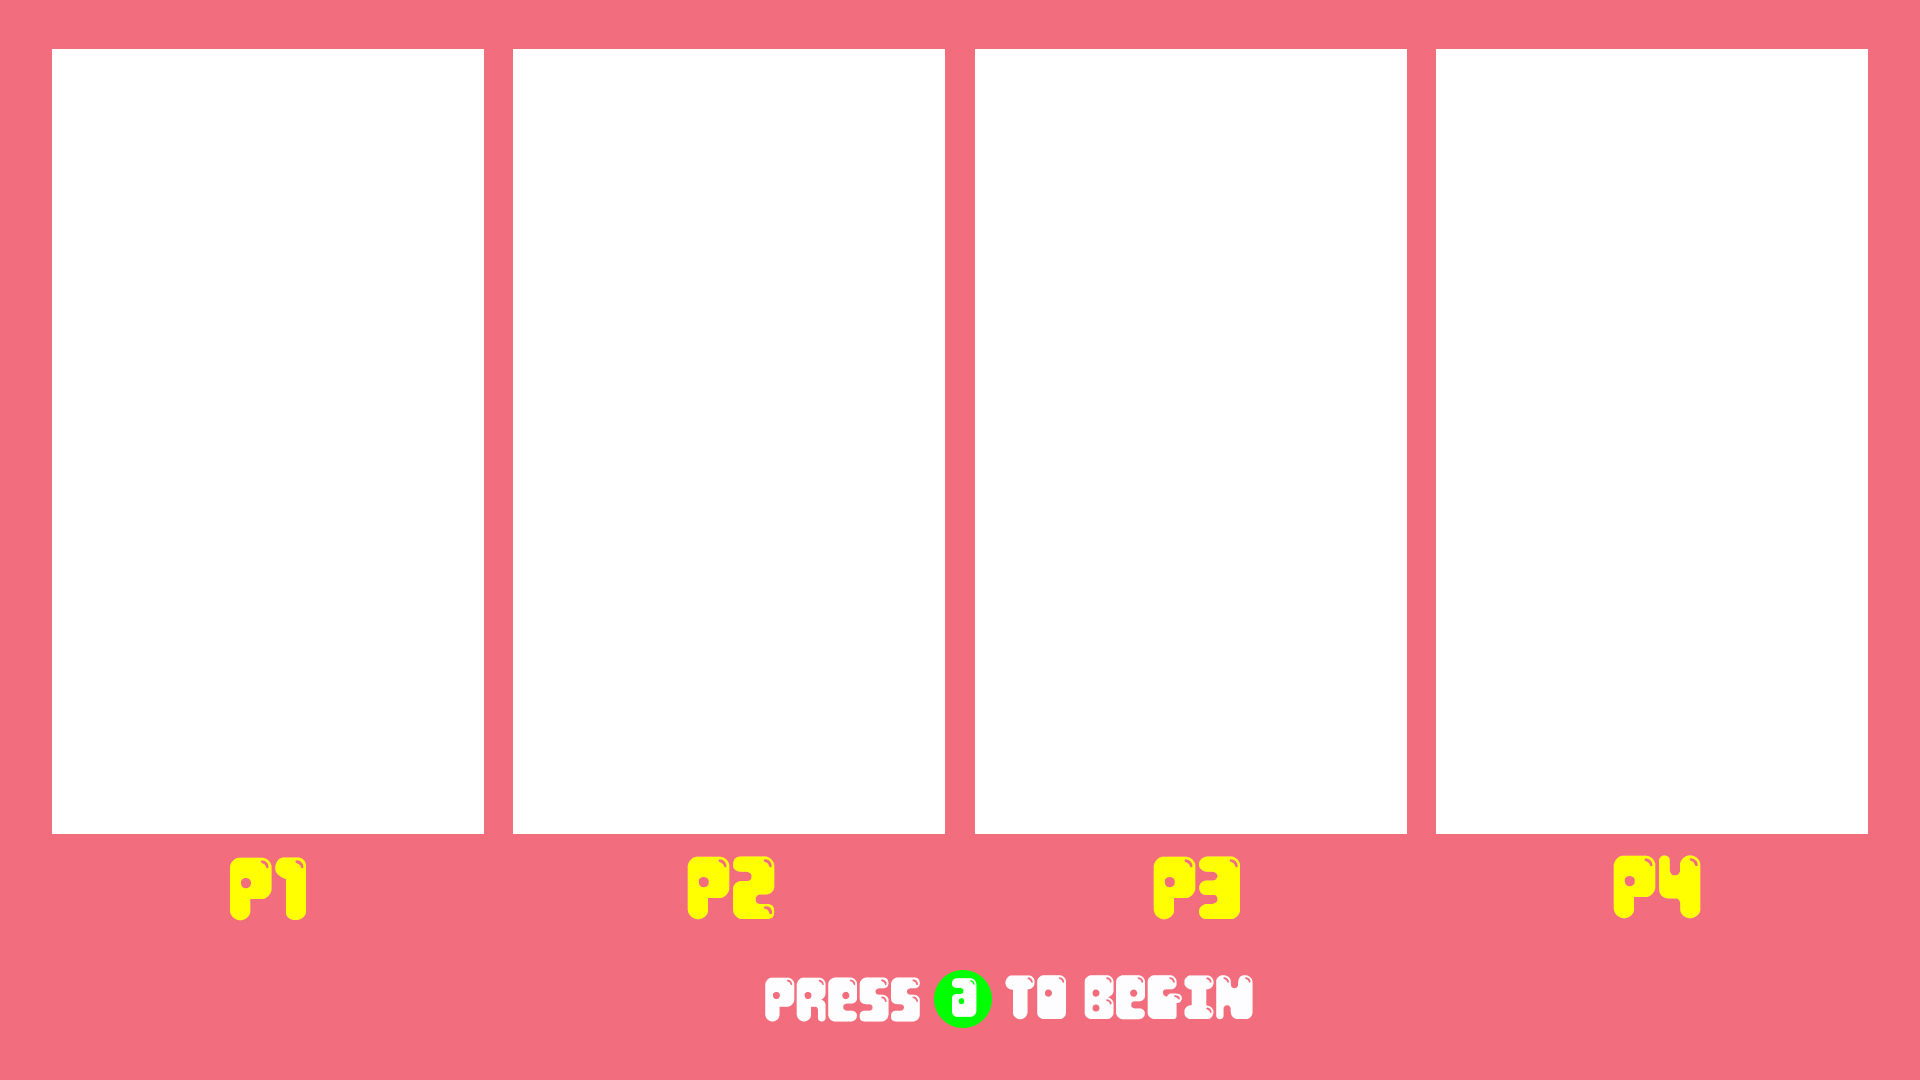
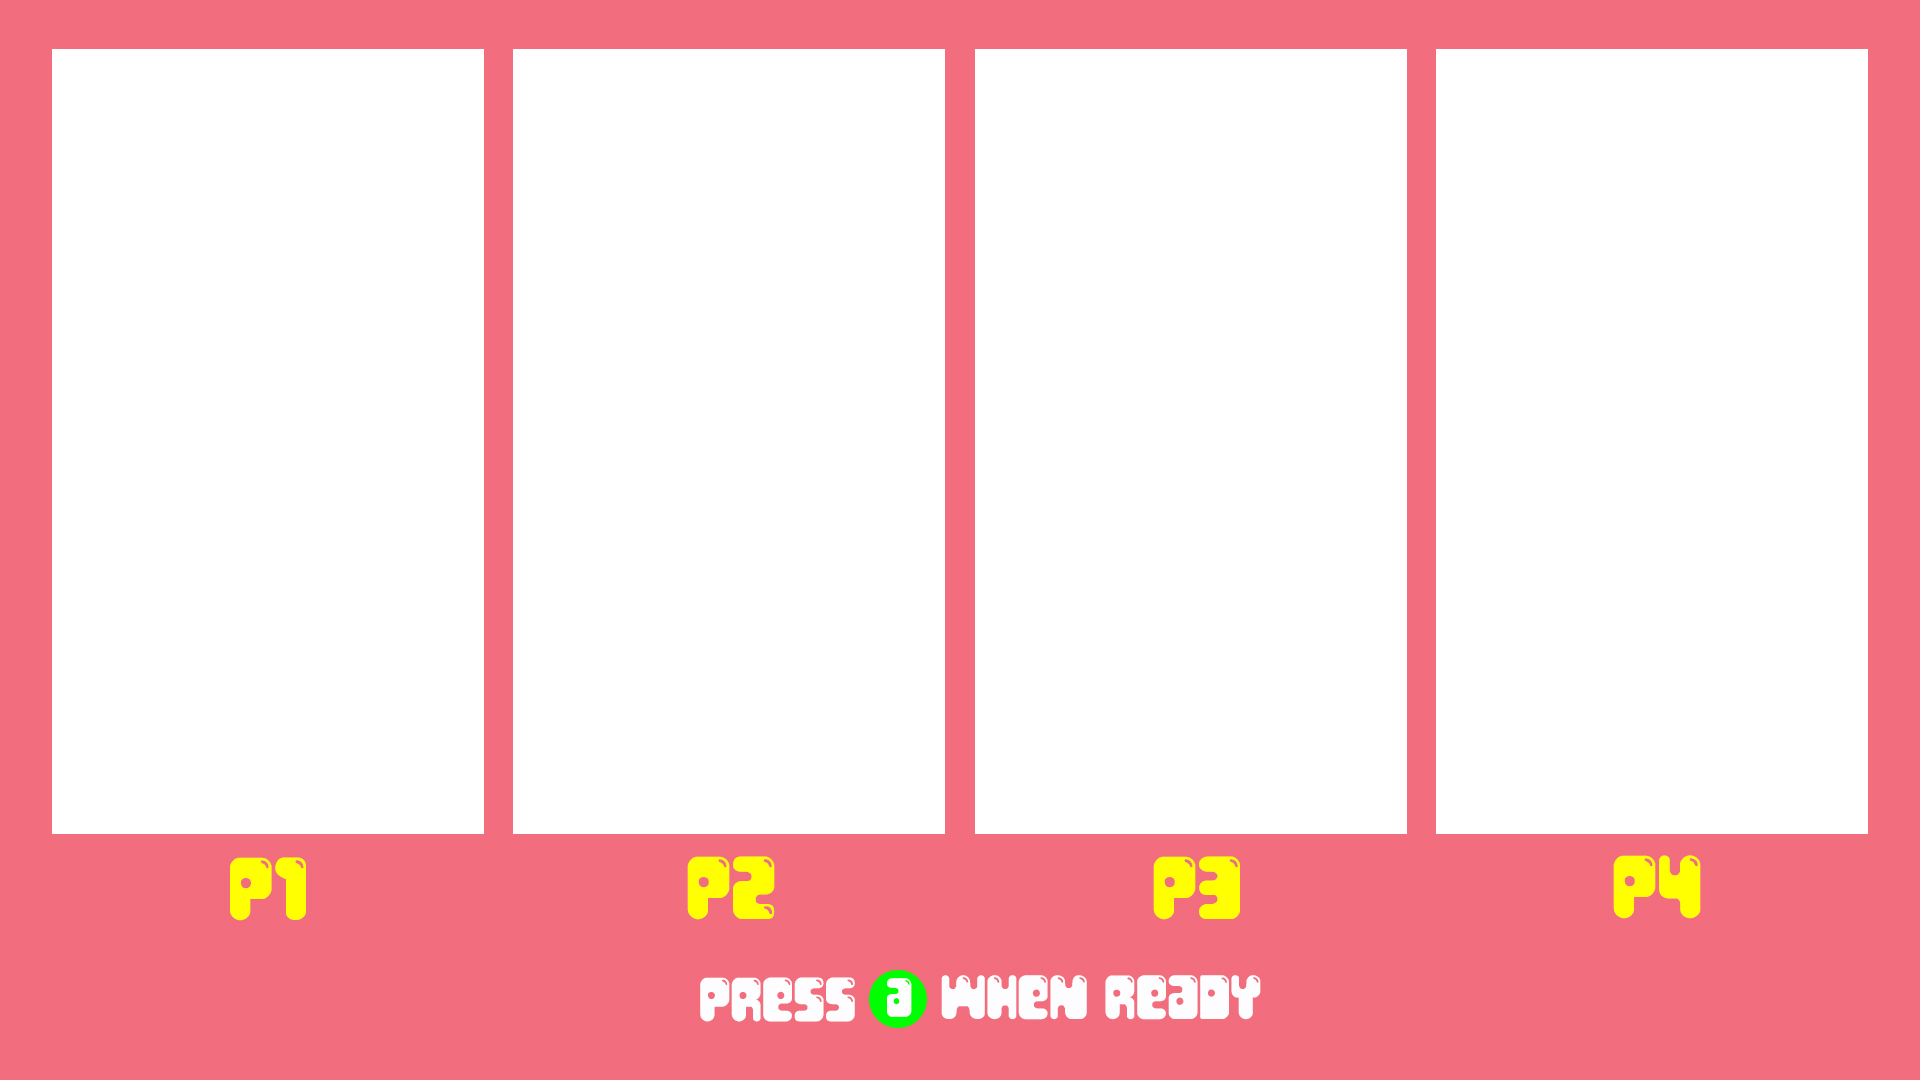
Changed the lobby. Add the state for lobby ready when that's ready.

Changed region(s): [[0.3438, 0.8861, 0.6562, 0.9472]]

diff --git a/game/client/Window.cpp b/game/client/Window.cpp
@@ -103,6 +103,9 @@ void Window::idle_callback(GLFWwindow* window) {
 	if (STATE == State::_Lobby) {
 		MessageHandler::handleLobbyMessages();
 	}
+	if (STATE == State::_LobbyReady) {
+		MessageHandler::handleLobbyReadyMessages();
+	}
 	if (STATE == State::_Start) {
 		MessageHandler::handleStartMessages();
 	}
@@ -128,6 +131,9 @@ void Window::display_callback(GLFWwindow* window) {
 		break;
 	case State::_Lobby:
 		Globals::gameObjects.guiMap[_LobbyBG]->draw(Globals::drawData);
+		break;
+	case State::_LobbyReady:
+		Globals::gameObjects.guiMap[_LobbyReadyBG]->draw(Globals::drawData);
 		break;
 	case State::_Game:
 		Globals::drawData.view = Globals::cam.getView();
@@ -375,6 +381,7 @@ void Window::handle_gamepad(GLFWwindow* window) {
 
 	if (STATE == State::_Lobby) {
 		if (buttons[BUTTON_A] == GLFW_PRESS) {
+			//STATE = State::_LobbyReady; // WILL USE THIS STATE WHEN SERVER STUFF IMPLEMNENTED
 			STATE = State::_Game;
 		}
 	}

diff --git a/game/client/GameObjects.cpp b/game/client/GameObjects.cpp
@@ -19,8 +19,9 @@ const char* deerstalkerHatPath = "Assets/OBJ/DeerstalkerHat/DeerstalkerHat.obj";
 string skyboxDirectory = "Assets/Cubemap";
 string backgroundPath = "Assets/UI/DeerMenu.jpg";
 string lobbyPath = "Assets/UI/Lobby.jpg";
+string lobbyReadyPath = "Assets/UI/Lobby_Ready.jpg";
 string endPath = "Assets/UI/EndGame.jpg";
-string loadingPath = "Assets/UI/Loading.png";
+string loadingPath = "Assets/UI/Loading.jpg";
 
 GameObjects::GameObjects() {
 }
@@ -62,6 +63,7 @@ void GameObjects::loadLoadingObject() {
 void GameObjects::loadGameObjects() {
 	guiMap[_Background] = new GuiItem(backgroundPath, shaderMap[_GShader], 60, 34, 0, 0);
 	guiMap[_LobbyBG] = new GuiItem(lobbyPath, shaderMap[_GShader], 60, 34, 0, 0);
+	guiMap[_LobbyReadyBG] = new GuiItem(lobbyReadyPath, shaderMap[_GShader], 60, 34, 0, 0);
 	guiMap[_EndGameBG] = new GuiItem(endPath, shaderMap[_GShader], 60, 34, 0, 0);
 
 	numPlayerGuiSet = 0;

diff --git a/game/client/MessageHandler.h b/game/client/MessageHandler.h
@@ -22,6 +22,7 @@ public:
 	static std::mutex endGameLock;
 
 	static void handleLobbyMessages();
+	static void handleLobbyReadyMessages();
 	static void handleStartMessages();
 	static void handleGameMessages();
 	static void handleEndGameMessages();

diff --git a/game/client/MessageHandler.cpp b/game/client/MessageHandler.cpp
@@ -16,6 +16,10 @@ std::mutex MessageHandler::endGameLock;
 void MessageHandler::handleLobbyMessages() {
 }
 
+void MessageHandler::handleLobbyReadyMessages() {
+
+}
+
 void MessageHandler::handleStartMessages() {
 }
 

diff --git a/game/client/GameObjects.h b/game/client/GameObjects.h
@@ -38,6 +38,7 @@ enum Shaders {
 enum GUI {
 	_Background,
 	_LobbyBG,
+	_LobbyReadyBG,
 	_EndGameBG,
 	_Loading
 };

diff --git a/game/client/State.h b/game/client/State.h
@@ -5,6 +5,7 @@ namespace State {
 		_Loading,
 		_Start,
 		_Lobby,
+		_LobbyReady,
 		_Game,
 		_EndGame
 	};
